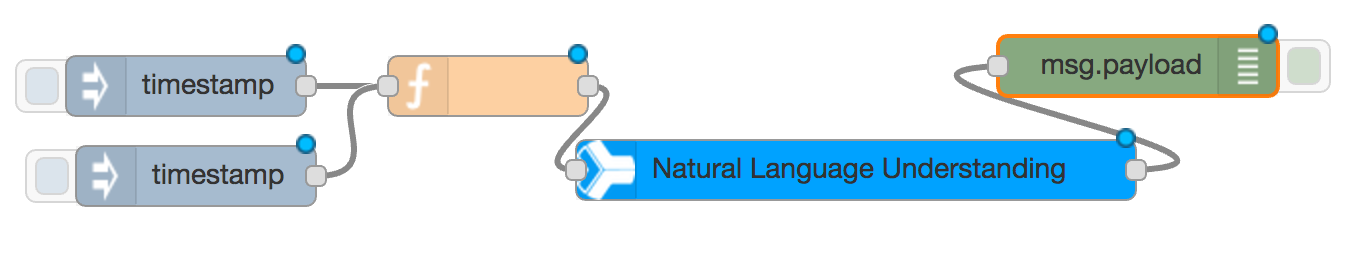
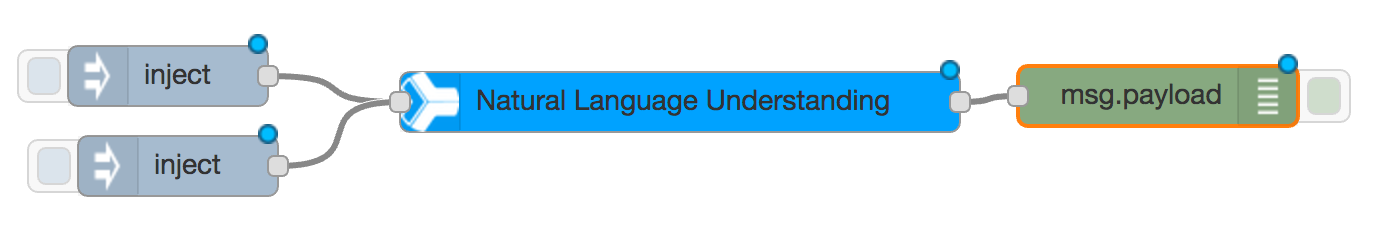
Natural Language Understanding Flow

diff --git a/basic_examples/natural_language_understanding/README.md b/basic_examples/natural_language_understanding/README.md
@@ -30,9 +30,6 @@ Two Inject nodes.
 
 ![ScreenShot](images/nlu_inject_node.png)
 
-A function node.
-
-![ScreenShot](images/nlu_inject_node.png)
 
 A Natural Language Understanding node.
 
@@ -49,7 +46,32 @@ Wire the nodes together.
 ![ScreenShot](images/nlu_wiring.png)
 
 ### Node configuration
+The first inject node will be used to inject a url into the flow.
 
+![ScreenShot](images/nlu_url_inject.png)
+
+The second inject node will be used to inject text into the flow.
+
+![ScreenShot](images/nlu_text_inject.png)
+
+Configure the Natural Language Understanding node for the service
+features that you want to detect.
+
+![ScreenShot](images/nlu_nlu_config.png)
+
+
+Configure the debug node to show the complete msg object.
+
+![ScreenShot](images/nlu_debug_config.png)
+
+### Completed Configuration
+You flow should look like
+
+![ScreenShot](images/nlu_config_wiring.png)
+
+
+## Trying your flow
+The Natural L
 
 ## Completed Flows
-The complete flow is available at ...
+The complete flow is available at [flows](nlu_flow.json) 
